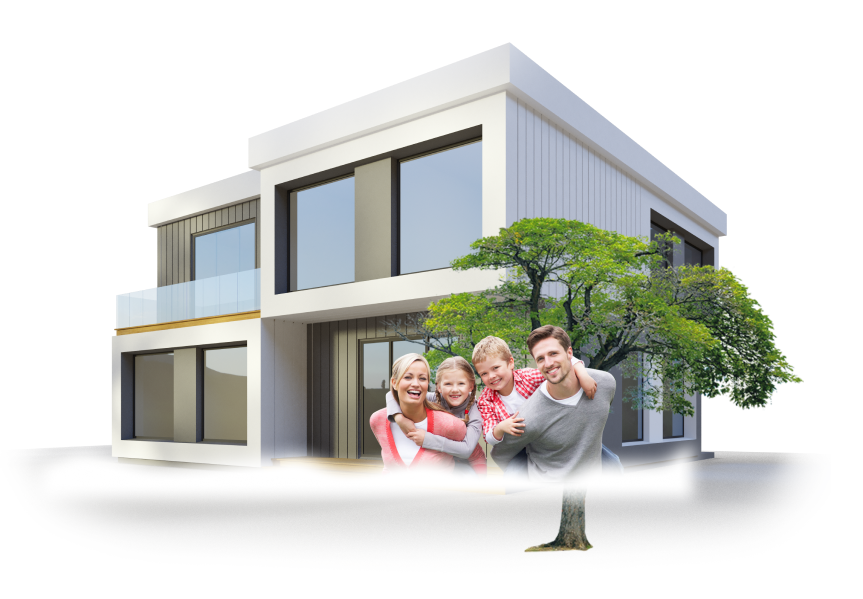
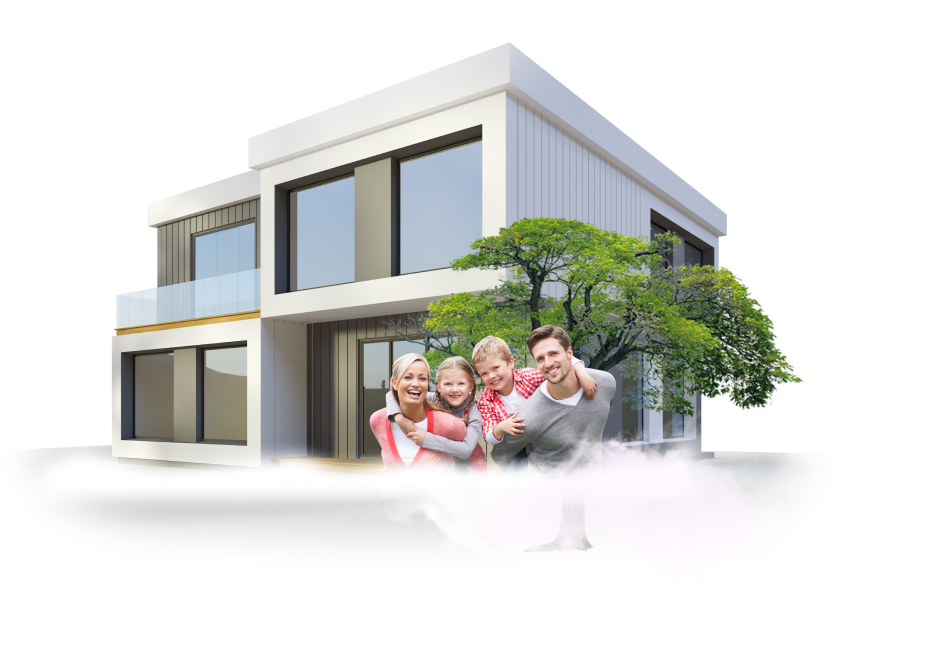
finished block

diff --git a/src/owner.html b/src/owner.html
@@ -901,14 +901,13 @@
               <p>
                 Мы осуществляем
                 <strong>
-                  Мы осуществляем контроль качества на всех этапах производства
-                  и сборки Мы осуществляем </strong
+                  контроль качества на всех этапах производства и сборки </strong
                 >, чтобы вы получили лучший продукт. производителей.
               </p>
             </div>
             <div class="reliability__warranty">
-              <strong>Срок службы 100+ лет</strong>, 2 комплектации, 3 вида
-              дизайна и еще 4 плюса
+              <strong>Срок службы 100+ лет</strong>, 2&nbsp;комплектации,
+              3&nbsp;вида дизайна и еще 4 плюса
             </div>
             <ul class="reliability__avails">
               <li class="reliability__avail card-avail">
@@ -925,33 +924,61 @@
                 <svg class="card-avail__icon" width="65" height="65">
                   <use xlink:href="@img/icons/sprite.svg#moving-home"></use>
                 </svg>
-                <div class="card-avail__title">Необычно</div>
+                <div class="card-avail__title">Мобильно</div>
                 <div class="card-avail__descr">
-                  Станьте владельцем здания, построенного по уникальной
-                  технологии.
+                  Будьте свободны — переезжайте с домом или перемещайте бизнес.
                 </div>
               </li>
               <li class="reliability__avail card-avail">
                 <svg class="card-avail__icon" width="65" height="65">
                   <use xlink:href="@img/icons/sprite.svg#protection"></use>
                 </svg>
-                <div class="card-avail__title">Необычно</div>
+                <div class="card-avail__title">Практично</div>
                 <div class="card-avail__descr">
-                  Станьте владельцем здания, построенного по уникальной
-                  технологии.
+                  Выбирайте экономичный в создании и содержании объект.
                 </div>
               </li>
               <li class="reliability__avail card-avail">
                 <svg class="card-avail__icon" width="65" height="65">
                   <use xlink:href="@img/icons/sprite.svg#house-protect"></use>
                 </svg>
-                <div class="card-avail__title">Необычно</div>
+                <div class="card-avail__title">Надежно 100%</div>
                 <div class="card-avail__descr">
-                  Станьте владельцем здания, построенного по уникальной
-                  технологии.
+                  Получите здание из прочных, современных и долговечных
+                  материалов.
                 </div>
               </li>
             </ul>
+            <div class="reliability__picture">
+              <div class="reliability__wrap-img">
+                <img
+                  class="reliability__img"
+                  src="@img/private-owner/reliability/picture/home.png"
+                  alt="home"
+                  loading="lazy"
+                />
+                <div class="reliability__clouds">
+                  <img
+                    class="reliability__cloud-img"
+                    src="@img/private-owner/reliability/picture/clouds/01.png"
+                    alt="cloud"
+                    loading="lazy"
+                  />
+                  <img
+                    class="reliability__cloud-img"
+                    src="@img/private-owner/reliability/picture/clouds/02.png"
+                    alt="cloud"
+                    loading="lazy"
+                  />
+                  <img
+                    class="reliability__cloud-img"
+                    src="@img/private-owner/reliability/picture/clouds/03.png"
+                    alt="cloud"
+                    loading="lazy"
+                  />
+                </div>
+              </div>
+            </div>
           </div>
         </section>
       </main>

diff --git a/src/scss/blocks/reliability.scss b/src/scss/blocks/reliability.scss
@@ -1,23 +1,149 @@
 .reliability {
+  position: relative;
   // .reliability__background
   &__background {
   }
   // .reliability__container
   &__container {
+    @include adaptiveValue('padding-top', 200, 120);
+    @include adaptiveValue('padding-bottom', 90, 100);
+
+    display: grid;
+    grid-template:
+      'h h' auto
+      't p' auto
+      'w p' auto
+      'a a' 1fr / #{percent(645, 1522)} 1fr;
+
+    @media (max-width: $tablet) {
+      grid-template:
+        'h' auto
+        't' auto
+        'p' auto
+        'w' auto
+        'a' 1fr;
+
+      text-align: center;
+    }
   }
   // .reliability__header
   &__header {
+    grid-area: h;
+
+    &:not(:last-child) {
+      @include adaptiveValue('margin-bottom', 100, 40);
+    }
+
+    text-align: center;
   }
   // .reliability__text
   &__text {
+    grid-area: t;
+
+    @include adaptiveValue('font-size', 20, 14);
+    @include adaptiveValue('line-height', 32, 24);
+
+    p {
+      &:not(:last-child) {
+        @include adaptiveValue('margin-bottom', 50, 40);
+      }
+    }
+    &:not(:last-child) {
+      @include adaptiveValue('margin-bottom', 80, 0, $containerWidth, 360, 1);
+    }
   }
   // .reliability__warranty
   &__warranty {
+    grid-area: w;
+
+    @include adaptiveValue('font-size', 26, 20);
+    font-weight: 300;
+    line-height: rem(34);
+    text-transform: uppercase;
+
+    &:not(:last-child) {
+      @include adaptiveValue('margin-bottom', 45, 30);
+    }
   }
   // .reliability__avails
   &__avails {
+    grid-area: a;
+
+    display: flex;
+    flex-wrap: wrap;
+    justify-content: space-between;
+    gap: rem(20);
+
+    text-align: left;
+
+    @media (max-width: $mobile) {
+      gap: rem(15);
+    }
   }
   // .reliability__avail
   &__avail {
+    min-width: rem(150);
+    flex: 1 1 percent(362, 1522);
+  }
+  // .reliability__picture
+  &__picture {
+    position: relative;
+    z-index: -1;
+    grid-area: p;
+
+    @media (max-width: $tablet) {
+      aspect-ratio: 330/250;
+    }
+  }
+  &__wrap-img {
+    position: absolute;
+    top: percent(-85, 467);
+    left: percent(24, 877);
+    width: percent(863, 877);
+    aspect-ratio: 863/599;
+
+    @media (max-width: $tablet) {
+      top: 50%;
+      left: 50%;
+      width: percent(388, 330);
+      transform: translate(-50%, -50%);
+    }
+  }
+  // .reliability__img
+  &__img {
+    position: absolute;
+    width: 100%;
+    height: 100%;
+    top: 0;
+    left: 0;
+  }
+
+  // .reliability__cloud-img
+  &__cloud-img {
+    position: absolute;
+    &:nth-child(1) {
+      width: percent(1260, 863);
+      height: percent(373, 599);
+      top: percent(350, 599);
+      left: percent(-315, 863);
+
+      animation: clouds 24s linear alternate infinite;
+    }
+    &:nth-child(2) {
+      width: percent(830, 863);
+      height: percent(187, 599);
+      top: percent(413, 599);
+      left: percent(-40, 863);
+
+      animation: clouds 32s linear alternate-reverse infinite;
+    }
+    &:nth-child(3) {
+      width: percent(1048, 863);
+      height: percent(187, 599);
+      top: percent(413, 599);
+      left: percent(-70, 863);
+
+      animation: clouds 40s linear alternate infinite;
+    }
   }
 }

diff --git a/src/scss/blocks/card-avail.scss b/src/scss/blocks/card-avail.scss
@@ -1,11 +1,69 @@
 .card-avail {
+  @include adaptiveValue('padding-top', 50, 20, $containerWidth, 360, 1);
+  @include adaptiveValue('padding-bottom', 50, 20, $containerWidth, 360, 1);
+  @include adaptiveValue('padding-left', 45, 20, $containerWidth, 360, 1);
+  @include adaptiveValue('padding-right', 45, 20, $containerWidth, 360, 1);
+  @include adaptiveValue('border-radius', 30, 20);
+  background-color: $color-white;
+  display: grid;
+  // grid-template: auto 1fr / auto 1fr;
+  grid-template:
+    'i t' auto
+    'i d' 1fr / auto 1fr;
+  column-gap: rem(20);
+  align-items: start;
+
+  @media (max-width: $mobile) {
+    // grid-template-columns: auto;
+    grid-template:
+      'i' auto
+      't' auto
+      'd' 1fr;
+  }
+
   // .card-avail__icon
   &__icon {
+    grid-area: i;
+
+    @include adaptiveValue('width', 65, 24, $containerWidth, 360, 1);
+    height: auto;
+    aspect-ratio: 1/1;
+
+    fill: $color-steel-blue;
+
+    @media (max-width: $mobile) {
+      &:not(:last-child) {
+        margin-bottom: rem(10);
+      }
+    }
   }
+
   // .card-avail__title
   &__title {
+    grid-area: t;
+
+    font-weight: 750;
+    line-height: rem(22);
+
+    @media (max-width: $mobile) {
+      font-size: rem(12);
+      line-height: rem(18);
+    }
+
+    &:not(:last-child) {
+      @include adaptiveValue('margin-bottom', 13, 6);
+    }
   }
+
   // .card-avail__descr
   &__descr {
+    grid-area: d;
+
+    line-height: rem(22);
+
+    @media (max-width: $mobile) {
+      font-size: rem(12);
+      line-height: rem(18);
+    }
   }
 }
